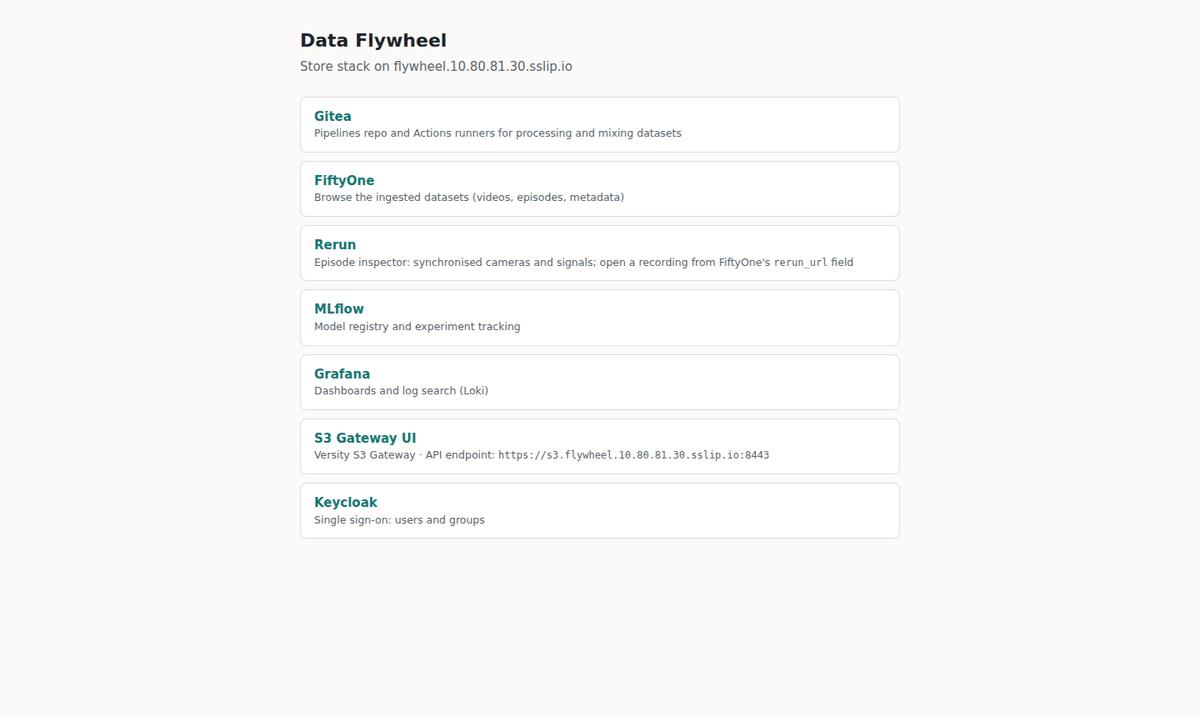
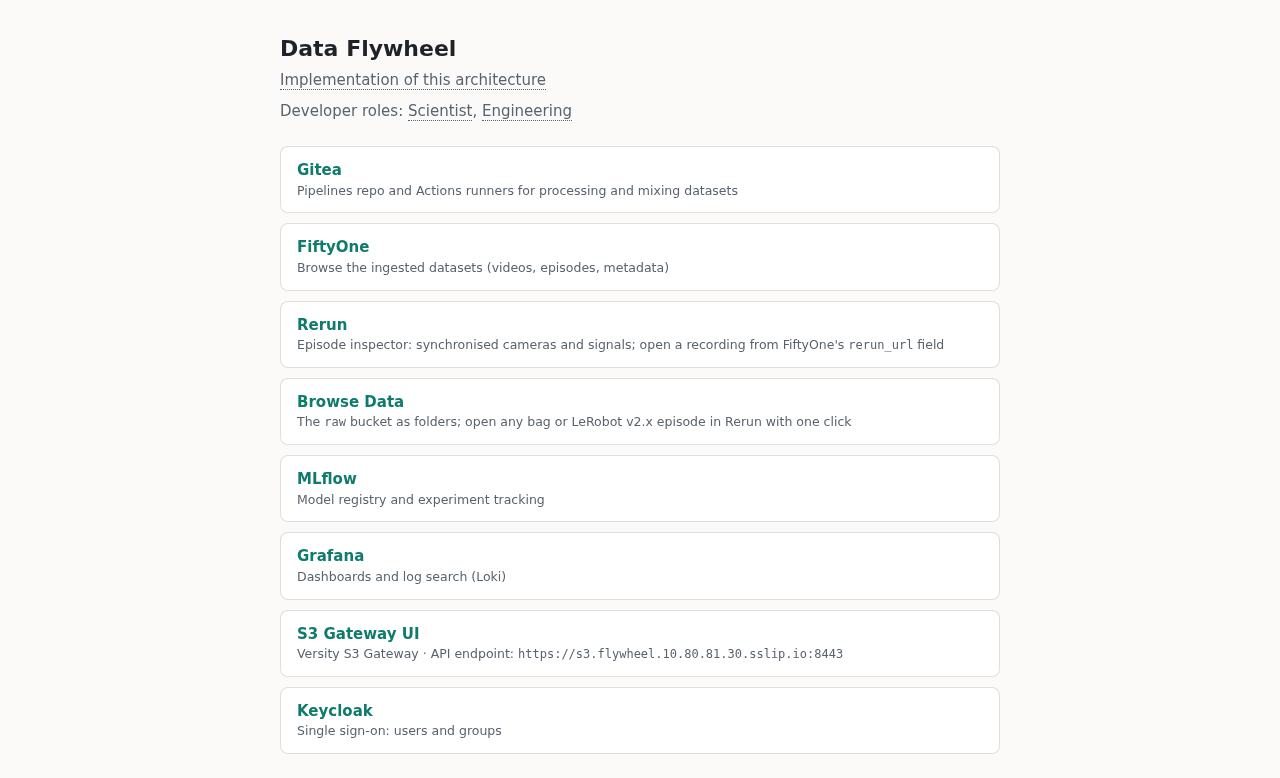
assets: devroles moves in; the quickstart keeps only its landing-page screenshot
devroles/ is now assets/devroles/, served to the landing page through the existing assets
mount (its own mount goes; the 404 rule follows it). The role pages embed their diagrams
root-relative, so the links work on GitHub and on the landing page. Seven screenshots
nothing referenced are removed, and landing.png shows the current page.

Claude-Session: https://claude.ai/code/session_01TNoFRvHmBa2sXQKqBMPEwB

diff --git a/services/caddy/site/index.html b/services/caddy/site/index.html
@@ -29,7 +29,7 @@
   #flyer { width: min(518px, 90vw); }   /* the GIF's own width */
   #arch { width: min(1100px, 94vw); left: 3vw; }   /* the SVG is 1570 px wide; centred under a 720 px column */
   #archText, .role > span { border-bottom: 1px dotted var(--muted); }
-  /* a role's page (devroles/*.md) pops up over the word; it is a child of the word, so the pointer can move into it and scroll */
+  /* a role's page (assets/devroles/*.md) pops up over the word; it is a child of the word, so the pointer can move into it and scroll */
   #roles { position: relative; color: var(--muted); margin: -16px 0 24px; }   /* the cards align with the column, not the word */
   .role { cursor: default; }
   .role .card { position: absolute; z-index: 10; display: none; top: 100%; left: 0; width: min(900px, 92vw); max-height: 75vh; overflow: auto;
@@ -55,8 +55,8 @@
   <h1><span id="flywheel" class="hover">Data Flywheel</span><img id="flyer" class="shown" alt="The Singapore Flyer with a bufo in every capsule"></h1>
   <p><span id="archText" class="hover">Implementation of this architecture</span><img id="arch" class="shown" src="/assets/architecture.svg" alt="The data flywheel architecture: Tooling, Infra, Processed, Train, Evaluate"></p>
   <div id="roles">Developer roles:
-    <span class="role"><span>Scientist</span><div class="card">{{include "/devroles/scientist.md" | markdown}}</div></span>,
-    <span class="role"><span>Engineering</span><div class="card">{{include "/devroles/engineering.md" | markdown}}</div></span>
+    <span class="role"><span>Scientist</span><div class="card">{{include "/assets/devroles/scientist.md" | markdown}}</div></span>,
+    <span class="role"><span>Engineering</span><div class="card">{{include "/assets/devroles/engineering.md" | markdown}}</div></span>
   </div>
   <ul>
     <li><a href="/gitea/">Gitea</a> <small>Pipelines repo and Actions runners for processing and mixing datasets</small></li>

diff --git a/tools/architecture_svg.py b/tools/architecture_svg.py
@@ -1,6 +1,6 @@
 #!/usr/bin/env python3
 """Write architecture.svg from architecture.html (the source), so the README can show the diagram inline, and one
-variant per role (architecture-<role>.svg) with the boxes that role covers (data-roles) in green, for devroles/.
+variant per role (architecture-<role>.svg) with the boxes that role covers (data-roles) in green, for assets/devroles/.
 
     python3 tools/architecture_svg.py [assets/architecture.html [assets/]]
 

diff --git a/services/caddy/README.md b/services/caddy/README.md
@@ -4,7 +4,7 @@ TLS termination, routing and the local CA, all on `$CADDY_PORT`. Apps that work 
 
 | URL | Upstream |
 |---|---|
-| `/` | landing page (`site/index.html`); hovering a link pops up a random bufo from the `assets/bufo` submodule, served at `/bufo/`; hovering the title shows `site/flywheel.gif`, the line below it `assets/architecture.svg` (repo `assets/` at `/assets/`), and hovering a developer role pops up its [devroles](../../devroles/) page, which the template includes and renders (`/devroles/` itself answers 404: the folder also holds private notes) |
+| `/` | landing page (`site/index.html`); hovering a link pops up a random bufo from the `assets/bufo` submodule, served at `/bufo/`; hovering the title shows `site/flywheel.gif`, the line below it `assets/architecture.svg` (repo `assets/` at `/assets/`), and hovering a developer role pops up its [devroles](../../assets/devroles/) page, which the template includes and renders (`/assets/devroles/` itself answers 404: the folder also holds private notes) |
 | `/status/models`, `/status/load` | the landing page's model tables: the LLM gateway's `/v1/models` (context window, inputs, licence per model, from `dynamo/models.yaml`), and one fixed Prometheus query (requests, tokens, generation speed and requests in progress per model on Dynamo and Triton, GPU use of their nodes); nothing else of Prometheus or the gateway is reachable without login |
 | `/gitea`, `/mlflow`, `/grafana`, `/loki` | the service |
 | `/auth`, `/oauth2` | Keycloak, oauth2-proxy |

diff --git a/README.md b/README.md
@@ -17,8 +17,7 @@ Edit the [source](assets/architecture.html); `assets/architecture.svg` and its r
 | [`eval/`](eval/README.md) | Benchmarks for action models (system 1) and agentic models (system 2) (git submodules) |
 | [`sensors/`](sensors/README.md) | Data-collection hardware (git submodules) |
 | [`services/`](services/README.md) | Infra stack as Docker Compose behind Caddy: Keycloak SSO, Gitea + Actions, MLflow, S3 gateway, FiftyOne, Rerun, Grafana/Loki, Triton, Slurm job scripts |
-| [`devroles/`](devroles/) | The developer roles that push the flywheel along: [Scientist](devroles/scientist.md), [Engineering](devroles/engineering.md) |
-| `assets/` | The architecture diagram and its role variants, quickstart screenshots, and the `bufo` image submodule |
+| `assets/` | The architecture diagram and its role variants, the developer roles that push the flywheel along ([Scientist](assets/devroles/scientist.md), [Engineering](assets/devroles/engineering.md)), the quickstart's landing-page screenshot, and the `bufo` image submodule |
 | `tools/` | Repo maintenance scripts |
 
 ## Setup

diff --git a/assets/devroles/engineering.md b/assets/devroles/engineering.md
@@ -6,7 +6,7 @@ Builds and runs what the flywheel stands on: the tooling that collects data and 
 
 ## Responsibilities
 
-![The flywheel with engineering's areas: tooling, infra, the sync specs, backup and restore, the deploy to inference compute, physical evals, the reset automation, the eval logs, the feedback loop and the upload and sync from off-robot collection and teleoperation in red; off-robot data collection, public datasets and their upload, and virtual evals, shared with the Scientist, in green](../assets/architecture-engineering.svg)
+![The flywheel with engineering's areas: tooling, infra, the sync specs, backup and restore, the deploy to inference compute, physical evals, the reset automation, the eval logs, the feedback loop and the upload and sync from off-robot collection and teleoperation in red; off-robot data collection, public datasets and their upload, and virtual evals, shared with the Scientist, in green](/assets/architecture-engineering.svg)
 
 | Item | Description |
 |---|---|

diff --git a/assets/devroles/scientist.md b/assets/devroles/scientist.md
@@ -6,7 +6,7 @@ Turns raw data into better models: processes it into training sets, experiments 
 
 ## Responsibilities
 
-![The flywheel with the scientist's areas: data processing, architecture experiments, model training and pre-evals, optimizations, distillation and the deploy into the model registry in blue; off-robot data collection, public datasets and their upload, and virtual evals, shared with Engineering, in green](../assets/architecture-scientist.svg)
+![The flywheel with the scientist's areas: data processing, architecture experiments, model training and pre-evals, optimizations, distillation and the deploy into the model registry in blue; off-robot data collection, public datasets and their upload, and virtual evals, shared with Engineering, in green](/assets/architecture-scientist.svg)
 
 | Item | Description |
 |---|---|
